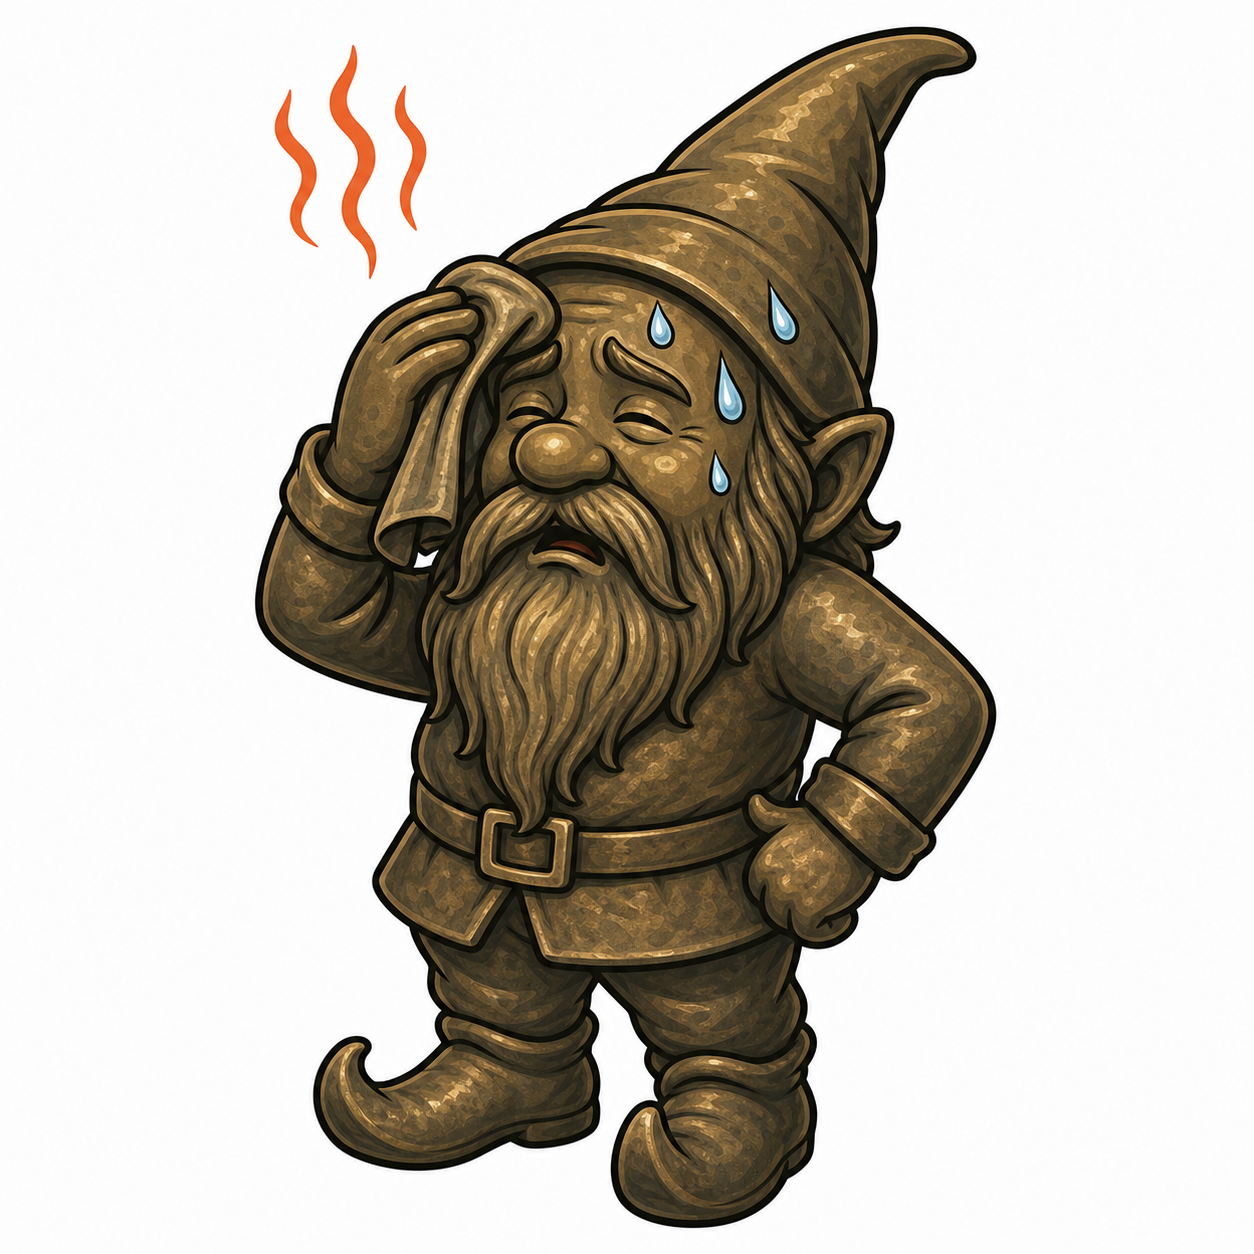
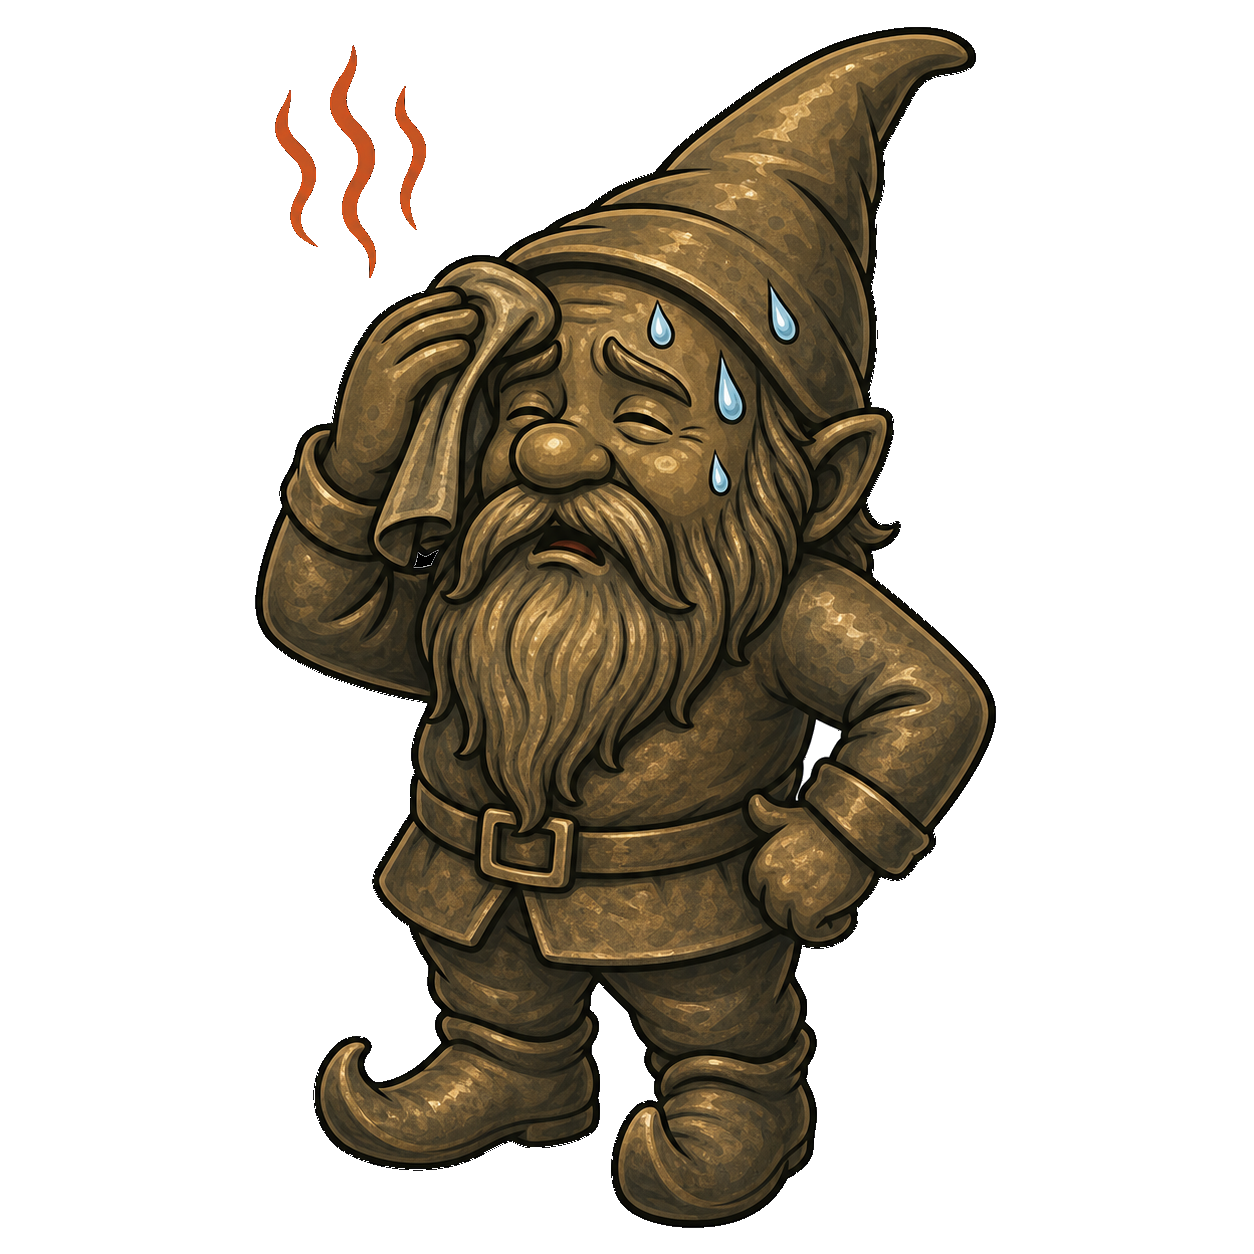
transparent background krasnale

Changed region(s): [[0.2177, 0.0622, 0.3421, 0.2177], [0.2799, 0.0311, 0.311, 0.0622]]

diff --git a/index.html b/index.html
@@ -103,33 +103,26 @@
             transform-origin: bottom center;
 
             /* Add the new CSS variable for duration with a fallback */
-            animation: jumpWait var(--jump-duration, 5s) infinite ease-in-out;
+            animation: jumpWait var(--jump-duration, 5s) infinite;
         }
 
         .state-hot .gnome-img {
             animation: none;
         }
 
-        @keyframes jumpWait {
+                @keyframes jumpWait {
             0% {
                 transform: translateY(0);
             }
-
-            10% {
-                transform: translateY(-30px);
+            2% {
+                transform: translateY(-30px); /* Jumps slightly higher too! */
             }
-
-            /* Jump up */
-            20% {
+            4% {
                 transform: translateY(0);
             }
-
-            /* Land back down */
             100% {
                 transform: translateY(0);
             }
-
-            /* Wait perfectly still until the next loop */
         }
 
         /* --- THE PAN & PIERÓG --- */
@@ -512,7 +505,7 @@
 
                 // --- TEST MODE --- 
                 // Uncomment to test extreme temperatures (e.g. 38)
-                // temp = 36;
+                temp = 26;
 
                 tempDisplay.innerText = `${temp}°C`;
 
